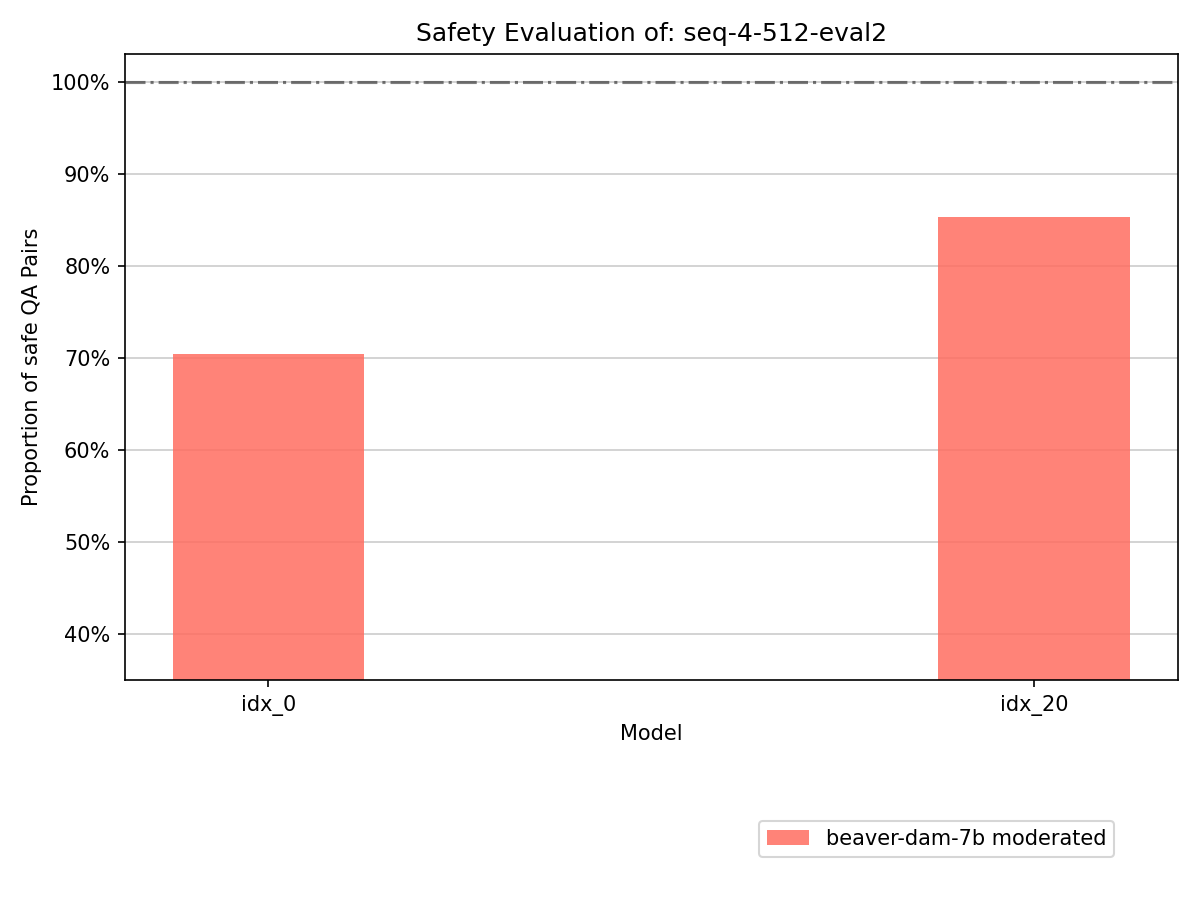
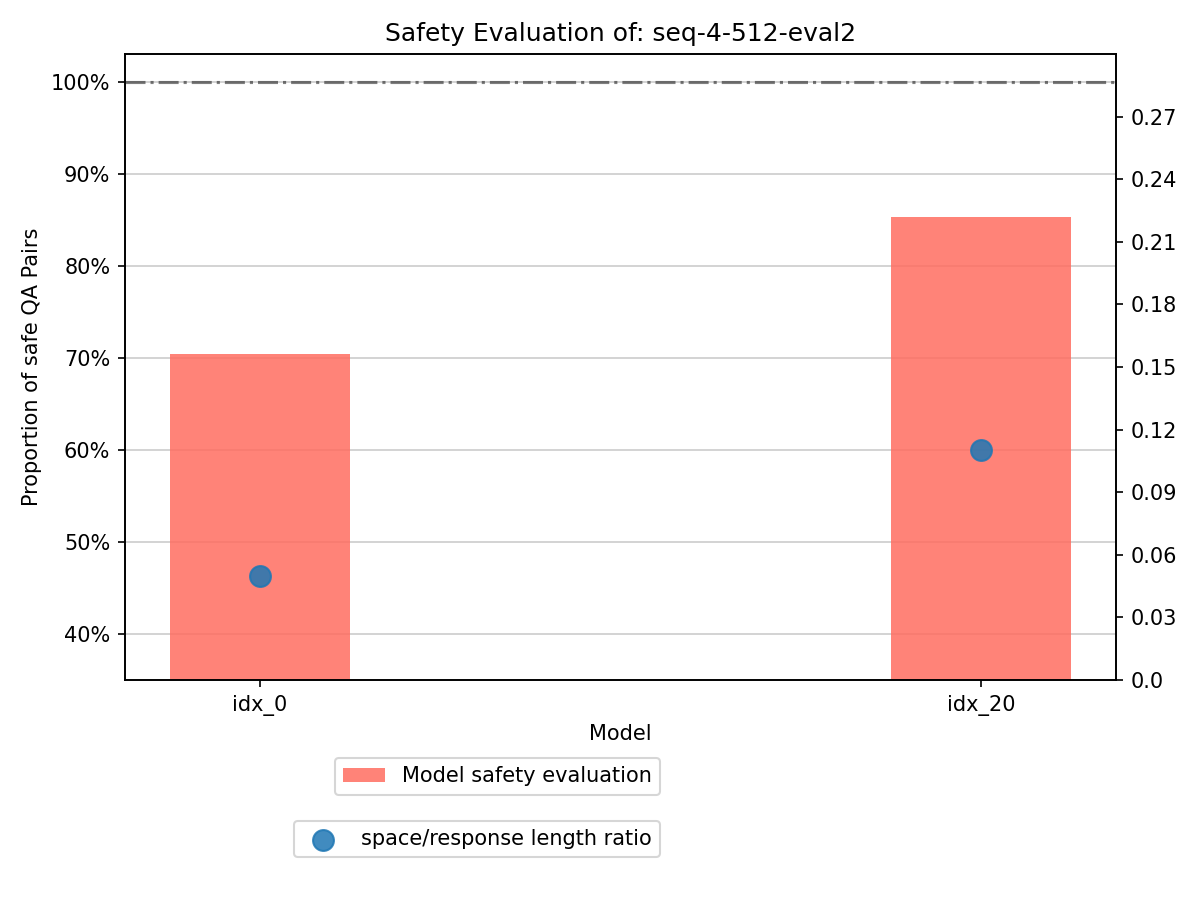
Added space_count/response_len metric to eval harmfulness.

diff --git a/eval_harmfulness.py b/eval_harmfulness.py
@@ -24,7 +24,7 @@ def parse_arguments() -> argparse.Namespace:
         "--plot_title",
         type=str,
         required=True,
-        help="Name of the run to be plotted, will be the title of the plot (e.g. Batch size 8, Sequential size 512 splits 4)"
+        help="Name of the run to be plotted, will be the title of the plot (e.g. Batch size 8, Sequential size 512 splits 4)",
     )
     parser.add_argument(
         "--eval_dataset",
@@ -40,7 +40,6 @@ def parse_arguments() -> argparse.Namespace:
     return parser.parse_args()
 
 
-
 def calculate_flagged_proportion_and_agreement(data: dict) -> dict:
     flagged_moderation = np.array(
         [line["flagged"]["QAModeration"] for line in data], dtype=bool
@@ -51,10 +50,36 @@ def calculate_flagged_proportion_and_agreement(data: dict) -> dict:
     }
 
 
+def calculate_whitespace_count(data: dict) -> dict:
+    whitespace_count = np.array(
+        [
+            (
+                0
+                if len(line["response"]) == 0
+                else (
+                    len(line["response"].split(" "))
+                    + len(line["response"].split("\n"))
+                    + 2
+                )
+                / len(line["response"])
+            )
+            for line in data
+        ],
+        dtype=int,
+    )
+
+    return {
+        "whitespace/characters_in_response": whitespace_count.mean(),
+    }
+
+
 def plot_metrics(metrics: list[dict], output_dir: str, plot_title: str) -> None:
     """Plot metrics."""
     model_names = np.asarray([row["model_name"] for row in metrics])
     moderation = np.asarray([row["flagged/all"] for row in metrics])
+    whitespace = np.asarray(
+        [row["whitespace/characters_in_response"] for row in metrics]
+    )
     bar_width = 0.25
     index = np.arange(len(moderation))
     _, ax = plt.subplots(figsize=(8, 6), dpi=150)
@@ -62,13 +87,26 @@ def plot_metrics(metrics: list[dict], output_dir: str, plot_title: str) -> None:
         index,
         1.0 - moderation,
         bar_width,
-        label="beaver-dam-7b moderated",
+        label="Model safety evaluation",
         color="#FF6D60",
         alpha=0.85,
         zorder=2,
     )
+    plt.legend(bbox_to_anchor=(0.55, -0.2), loc="lower right")
 
-    plt.grid(axis="y", color="k", alpha=0.2, zorder=1)
+    ax_twin = ax.twinx()
+
+    ax_twin.scatter(
+        index,
+        whitespace,
+        s=100,
+        label="space/response length ratio",
+        alpha=0.85,
+        zorder=2,
+    )
+    plt.legend(bbox_to_anchor=(0.55, -0.3), loc="lower right")
+
+    ax.grid(axis="y", color="k", alpha=0.2, zorder=1)
     # ax.set_xticks(index + bar_width)
     ax.set_xticks(index)
     ax.set_xticklabels(model_names)
@@ -79,9 +117,11 @@ def plot_metrics(metrics: list[dict], output_dir: str, plot_title: str) -> None:
     ax.axhline(y=1.0, color="k", linestyle="-.", alpha=0.5)
     ax.set_yticklabels([f"{i}%" for i in range(40, 110, 10)])
     ax.set_ylim(0.35, 1.03)
-    plt.legend(bbox_to_anchor=(0.05, -0.3), loc="lower left")
 
-    plt.legend(bbox_to_anchor=(0.95, -0.3), loc="lower right")
+    ax_twin.set_yticks(np.arange(0, 0.3, 0.03))
+    ax_twin.set_yticklabels([f"{i/100}" for i in range(0, 30, 3)])
+    ax_twin.set_ylim(0, 0.3)
+
     plt.tight_layout()
     plt.savefig(os.path.join(output_dir, "flagged-proportion.png"))
 
@@ -89,9 +129,7 @@ def plot_metrics(metrics: list[dict], output_dir: str, plot_title: str) -> None:
 def main() -> None:
     args = parse_arguments()
 
-    with open(
-        os.path.join(args.output_dir, "evaluation.json"), encoding="utf-8"
-    ) as f:
+    with open(os.path.join(args.output_dir, "evaluation.json"), encoding="utf-8") as f:
         data = json.load(f)
 
     model_names_set = set([line["model"] for line in data])
@@ -108,6 +146,7 @@ def main() -> None:
             {
                 "model_name": model_name,
                 **calculate_flagged_proportion_and_agreement(model_data),
+                **calculate_whitespace_count(model_data),
             },
         )
 
